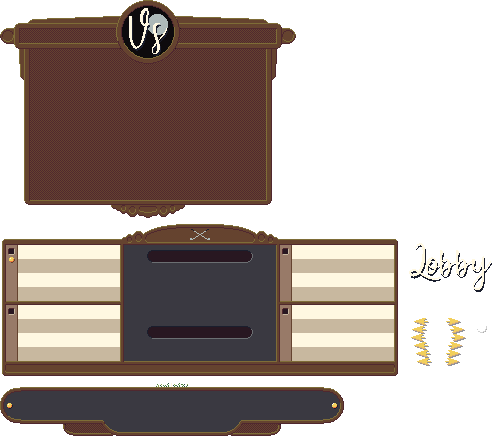
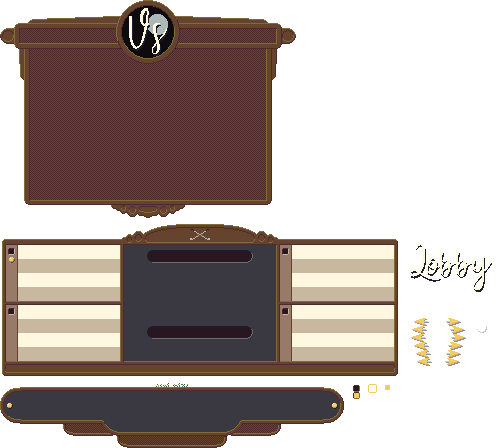
add option to hide custom courses in lobby menu

diff --git a/samples/golf/src/golf/MenuCreation.cpp b/samples/golf/src/golf/MenuCreation.cpp
@@ -250,7 +250,9 @@ void MenuState::hideToolTip()
 void MenuState::createUI()
 {
     parseCourseDirectory(ConstVal::MapPath, false);
+    m_officialCourseCount = m_courseData.size();
     parseCourseDirectory(cro::App::getPreferencePath() + ConstVal::UserMapPath, true);
+    m_activeCourseCount = m_sharedData.showCustomCourses ? m_courseData.size() : m_officialCourseCount;
 
     if (!m_courseData.empty())
     {
@@ -1097,7 +1099,7 @@ void MenuState::createAvatarMenu(cro::Entity parent, std::uint32_t mouseEnter, s
         {
             if (activated(evt))
             {
-                m_sharedData.courseIndex = (m_sharedData.courseIndex + (m_courseData.size() - 1)) % m_courseData.size();
+                m_sharedData.courseIndex = (m_sharedData.courseIndex + (m_activeCourseCount - 1)) % m_activeCourseCount;
 
                 m_sharedData.mapDirectory = m_courseData[m_sharedData.courseIndex].directory;
                 auto data = serialiseString(m_sharedData.mapDirectory);
@@ -1111,11 +1113,32 @@ void MenuState::createAvatarMenu(cro::Entity parent, std::uint32_t mouseEnter, s
         {
             if (activated(evt))
             {
-                m_sharedData.courseIndex = (m_sharedData.courseIndex + 1) % m_courseData.size();
+                m_sharedData.courseIndex = (m_sharedData.courseIndex + 1) % m_activeCourseCount;
 
                 m_sharedData.mapDirectory = m_courseData[m_sharedData.courseIndex].directory;
                 auto data = serialiseString(m_sharedData.mapDirectory);
                 m_sharedData.clientConnection.netClient.sendPacket(PacketID::MapInfo, data.data(), data.size(), net::NetFlag::Reliable, ConstVal::NetChannelStrings);
+
+                m_audioEnts[AudioID::Back].getComponent<cro::AudioEmitter>().play();
+            }
+        });
+
+    m_courseSelectCallbacks.toggleUserCourses = m_uiScene.getSystem<cro::UISystem>()->addCallback(
+        [&](cro::Entity, const cro::ButtonEvent& evt)
+        {
+            if (activated(evt))
+            {
+                m_sharedData.showCustomCourses = !m_sharedData.showCustomCourses;
+
+                m_activeCourseCount = m_sharedData.showCustomCourses ? m_courseData.size() : m_officialCourseCount;
+                auto newIndex = m_sharedData.courseIndex % m_activeCourseCount;
+                if (newIndex != m_sharedData.courseIndex)
+                {
+                    m_sharedData.courseIndex = newIndex;
+                    m_sharedData.mapDirectory = m_courseData[newIndex].directory;
+                    auto data = serialiseString(m_sharedData.mapDirectory);
+                    m_sharedData.clientConnection.netClient.sendPacket(PacketID::MapInfo, data.data(), data.size(), net::NetFlag::Reliable, ConstVal::NetChannelStrings);
+                }
 
                 m_audioEnts[AudioID::Back].getComponent<cro::AudioEmitter>().play();
             }
@@ -1131,6 +1154,18 @@ void MenuState::createAvatarMenu(cro::Entity parent, std::uint32_t mouseEnter, s
         [](cro::Entity e)
         {
             e.getComponent<cro::SpriteAnimation>().play(0);
+        });
+
+    m_courseSelectCallbacks.selectHighlight = m_uiScene.getSystem<cro::UISystem>()->addCallback(
+        [](cro::Entity e)
+        {
+            e.getComponent<cro::Sprite>().setColour(cro::Colour::White);
+            e.getComponent<cro::AudioEmitter>().play();
+        });
+    m_courseSelectCallbacks.unselectHighlight = m_uiScene.getSystem<cro::UISystem>()->addCallback(
+        [](cro::Entity e)
+        {
+            e.getComponent<cro::Sprite>().setColour(cro::Colour::Transparent);
         });
 
     m_courseSelectCallbacks.showTip = m_uiScene.getSystem<cro::UISystem>()->addCallback(
@@ -1591,6 +1626,8 @@ void MenuState::createLobbyMenu(cro::Entity parent, std::uint32_t mouseEnter, st
     spriteSheet.loadFromFile("assets/golf/sprites/lobby_menu.spt", m_resources.textures);
     m_sprites[SpriteID::PrevCourse] = spriteSheet.getSprite("arrow_left");
     m_sprites[SpriteID::NextCourse] = spriteSheet.getSprite("arrow_right");
+    m_sprites[SpriteID::LobbyCheckbox] = spriteSheet.getSprite("checkbox");
+    m_sprites[SpriteID::LobbyCheckboxHighlight] = spriteSheet.getSprite("checkbox_highlight");
 
 
     //title
@@ -1684,7 +1721,7 @@ void MenuState::createLobbyMenu(cro::Entity parent, std::uint32_t mouseEnter, st
     entity.addComponent<UIElement>().relativePosition = CourseDescPosition;
     entity.getComponent<UIElement>().depth = -0.2f;
     bounds = entity.getComponent<cro::Sprite>().getTextureBounds();
-    entity.getComponent<cro::Transform>().setOrigin({ std::floor( bounds.width / 2.f), std::floor(bounds.height / 2.f) });
+    entity.getComponent<cro::Transform>().setOrigin({ std::floor( bounds.width / 2.f), std::floor(bounds.height / 2.f) + 3.f });
     menuTransform.addChild(entity.getComponent<cro::Transform>());
     bgEnt = entity;
 
@@ -1724,7 +1761,7 @@ void MenuState::createLobbyMenu(cro::Entity parent, std::uint32_t mouseEnter, st
 
     //course title
     entity = m_uiScene.createEntity();
-    entity.addComponent<cro::Transform>().setPosition({ bounds.width / 2.f, 40.f, 01.f });
+    entity.addComponent<cro::Transform>().setPosition({ bounds.width / 2.f, 52.f, 01.f });
     entity.addComponent<cro::Drawable2D>();
     entity.addComponent<cro::CommandTarget>().ID = CommandID::Menu::CourseTitle;
     entity.addComponent<cro::Text>(font).setCharacterSize(UITextSize);
@@ -1733,7 +1770,7 @@ void MenuState::createLobbyMenu(cro::Entity parent, std::uint32_t mouseEnter, st
 
     //course description
     entity = m_uiScene.createEntity();
-    entity.addComponent<cro::Transform>().setPosition({ bounds.width / 2.f, 28.f, 01.f });
+    entity.addComponent<cro::Transform>().setPosition({ bounds.width / 2.f, 40.f, 01.f });
     entity.addComponent<cro::Drawable2D>();
     entity.addComponent<cro::CommandTarget>().ID = CommandID::Menu::CourseDesc;
     entity.addComponent<cro::Text>(smallFont).setCharacterSize(InfoTextSize);
@@ -1742,7 +1779,7 @@ void MenuState::createLobbyMenu(cro::Entity parent, std::uint32_t mouseEnter, st
 
     //hole count
     entity = m_uiScene.createEntity();
-    entity.addComponent<cro::Transform>().setPosition({ bounds.width / 2.f, 16.f, 01.f });
+    entity.addComponent<cro::Transform>().setPosition({ bounds.width / 2.f, 28.f, 01.f });
     entity.addComponent<cro::Drawable2D>();
     entity.addComponent<cro::CommandTarget>().ID = CommandID::Menu::CourseHoles;
     entity.addComponent<cro::Text>(smallFont).setCharacterSize(InfoTextSize);
@@ -3392,7 +3429,7 @@ void MenuState::addCourseSelectButtons()
     buttonEnt.addComponent<cro::Sprite>() = m_sprites[SpriteID::PrevCourse];
     buttonEnt.addComponent<cro::SpriteAnimation>();
     buttonEnt.addComponent<cro::CommandTarget>().ID = CommandID::Menu::UIElement | CommandID::Menu::CourseSelect;
-    buttonEnt.addComponent<UIElement>().absolutePosition = { -88.f, -19.f };
+    buttonEnt.addComponent<UIElement>().absolutePosition = { -88.f, -16.f };
     buttonEnt.getComponent<UIElement>().relativePosition = CourseDescPosition;
     buttonEnt.getComponent<UIElement>().depth = 0.01f;
     bounds = buttonEnt.getComponent<cro::Sprite>().getTextureBounds();
@@ -3416,7 +3453,7 @@ void MenuState::addCourseSelectButtons()
     buttonEnt.addComponent<cro::Sprite>() = m_sprites[SpriteID::PrevCourse];
     buttonEnt.addComponent<cro::SpriteAnimation>();
     buttonEnt.addComponent<cro::CommandTarget>().ID = CommandID::Menu::UIElement | CommandID::Menu::CourseSelect;
-    buttonEnt.addComponent<UIElement>().absolutePosition = { -44.f, -15.f };
+    buttonEnt.addComponent<UIElement>().absolutePosition = { -44.f, -12.f };
     buttonEnt.getComponent<UIElement>().relativePosition = CourseDescPosition;
     buttonEnt.getComponent<UIElement>().depth = 0.01f;
     bounds = buttonEnt.getComponent<cro::Sprite>().getTextureBounds();
@@ -3437,7 +3474,7 @@ void MenuState::addCourseSelectButtons()
     buttonEnt.addComponent<cro::Sprite>() = m_sprites[SpriteID::NextCourse];
     buttonEnt.addComponent<cro::SpriteAnimation>();
     buttonEnt.addComponent<cro::CommandTarget>().ID = CommandID::Menu::UIElement | CommandID::Menu::CourseSelect;
-    buttonEnt.addComponent<UIElement>().absolutePosition = { 44.f, -15.f };
+    buttonEnt.addComponent<UIElement>().absolutePosition = { 44.f, -12.f };
     buttonEnt.getComponent<UIElement>().relativePosition = CourseDescPosition;
     buttonEnt.getComponent<UIElement>().depth = 0.01f;
     bounds = buttonEnt.getComponent<cro::Sprite>().getTextureBounds();
@@ -3460,7 +3497,7 @@ void MenuState::addCourseSelectButtons()
     buttonEnt.addComponent<cro::Sprite>() = m_sprites[SpriteID::NextCourse];
     buttonEnt.addComponent<cro::SpriteAnimation>();
     buttonEnt.addComponent<cro::CommandTarget>().ID = CommandID::Menu::UIElement | CommandID::Menu::CourseSelect;
-    buttonEnt.addComponent<UIElement>().absolutePosition = { 88.f, -19.f };
+    buttonEnt.addComponent<UIElement>().absolutePosition = { 88.f, -16.f };
     buttonEnt.getComponent<UIElement>().relativePosition = CourseDescPosition;
     buttonEnt.getComponent<UIElement>().depth = 0.01f;
     bounds = buttonEnt.getComponent<cro::Sprite>().getTextureBounds();
@@ -3473,4 +3510,66 @@ void MenuState::addCourseSelectButtons()
     buttonEnt.getComponent<cro::Transform>().setOrigin({ bounds.width / 2.f, bounds.height / 2.f });
 
     m_menuEntities[MenuID::Lobby].getComponent<cro::Transform>().addChild(buttonEnt.getComponent<cro::Transform>());
+
+
+
+    //checkbox to hide custom courses
+    auto checkboxEnt = m_uiScene.createEntity();
+    checkboxEnt.addComponent<cro::Transform>();
+    checkboxEnt.addComponent<cro::Drawable2D>();
+    checkboxEnt.addComponent<cro::Sprite>() = m_sprites[SpriteID::LobbyCheckbox];
+    checkboxEnt.addComponent<cro::CommandTarget>().ID = CommandID::Menu::UIElement | CommandID::Menu::CourseSelect;
+    checkboxEnt.addComponent<UIElement>().absolutePosition = { -38.f, -31.f };
+    checkboxEnt.getComponent<UIElement>().relativePosition = CourseDescPosition;
+    checkboxEnt.getComponent<UIElement>().depth = 0.01f;
+
+    bounds = m_sprites[SpriteID::LobbyCheckbox].getTextureRect();
+    checkboxEnt.addComponent<cro::Callback>().active = true;
+    checkboxEnt.getComponent<cro::Callback>().function =
+        [&,bounds](cro::Entity e, float)
+    {
+        auto b = bounds;
+        if (m_sharedData.showCustomCourses)
+        {
+            b.bottom -= bounds.height;
+        }
+        e.getComponent<cro::Sprite>().setTextureRect(b);
+    };
+
+    m_menuEntities[MenuID::Lobby].getComponent<cro::Transform>().addChild(checkboxEnt.getComponent<cro::Transform>());
+
+    checkboxEnt = m_uiScene.createEntity();
+    checkboxEnt.addComponent<cro::Transform>();
+    checkboxEnt.addComponent<cro::AudioEmitter>() = m_menuSounds.getEmitter("switch");
+    checkboxEnt.addComponent<cro::Drawable2D>();
+    checkboxEnt.addComponent<cro::Sprite>() = m_sprites[SpriteID::LobbyCheckboxHighlight];
+    checkboxEnt.getComponent<cro::Sprite>().setColour(cro::Colour::Transparent);
+    checkboxEnt.addComponent<cro::CommandTarget>().ID = CommandID::Menu::UIElement | CommandID::Menu::CourseSelect;
+    checkboxEnt.addComponent<UIElement>().absolutePosition = { -39.f, -32.f };
+    checkboxEnt.getComponent<UIElement>().relativePosition = CourseDescPosition;
+    checkboxEnt.getComponent<UIElement>().depth = 0.01f;
+    bounds = checkboxEnt.getComponent<cro::Sprite>().getTextureBounds();
+    checkboxEnt.addComponent<cro::UIInput>().area = bounds;
+    checkboxEnt.getComponent<cro::UIInput>().setGroup(MenuID::Lobby);
+    checkboxEnt.getComponent<cro::UIInput>().callbacks[cro::UIInput::Selected] = m_courseSelectCallbacks.selectHighlight;
+    checkboxEnt.getComponent<cro::UIInput>().callbacks[cro::UIInput::Unselected] = m_courseSelectCallbacks.unselectHighlight;
+    checkboxEnt.getComponent<cro::UIInput>().callbacks[cro::UIInput::ButtonUp] = m_courseSelectCallbacks.toggleUserCourses;
+    m_menuEntities[MenuID::Lobby].getComponent<cro::Transform>().addChild(checkboxEnt.getComponent<cro::Transform>());
+
+
+    //and label
+    auto& font = m_sharedData.sharedResources->fonts.get(FontID::Info);
+    auto labelEnt = m_uiScene.createEntity();
+    labelEnt.addComponent<cro::Transform>();
+    labelEnt.addComponent<cro::Drawable2D>();
+    labelEnt.addComponent<cro::Text>(font).setString("Show Custom");
+    labelEnt.getComponent<cro::Text>().setCharacterSize(InfoTextSize);
+    labelEnt.getComponent<cro::Text>().setFillColour(TextNormalColour);
+    labelEnt.addComponent<cro::CommandTarget>().ID = CommandID::Menu::UIElement | CommandID::Menu::CourseSelect;
+    labelEnt.addComponent<UIElement>().absolutePosition = { 6.f, -24.f };
+    labelEnt.getComponent<UIElement>().relativePosition = CourseDescPosition;
+    labelEnt.getComponent<UIElement>().depth = 0.01f;
+
+    centreText(labelEnt);
+    m_menuEntities[MenuID::Lobby].getComponent<cro::Transform>().addChild(labelEnt.getComponent<cro::Transform>());
 }

diff --git a/samples/golf/src/golf/MenuState.cpp b/samples/golf/src/golf/MenuState.cpp
@@ -107,21 +107,23 @@ MainMenuContext::MainMenuContext(MenuState* state)
 }
 
 MenuState::MenuState(cro::StateStack& stack, cro::State::Context context, SharedStateData& sd)
-    : cro::State        (stack, context),
-    m_sharedData        (sd),
-    m_matchMaking       (context.appInstance.getMessageBus()),
-    m_cursor            (/*"assets/images/cursor.png", 0, 0*/cro::SystemCursor::Hand),
-    m_uiScene           (context.appInstance.getMessageBus(), 512),
-    m_backgroundScene   (context.appInstance.getMessageBus()/*, 128, cro::INFO_FLAG_SYSTEMS_ACTIVE*/),
-    m_avatarScene       (context.appInstance.getMessageBus()/*, 128, cro::INFO_FLAG_SYSTEMS_ACTIVE*/),
-    m_scaleBuffer       ("PixelScale"),
-    m_resolutionBuffer  ("ScaledResolution"),
-    m_windBuffer        ("WindValues"),
-    m_avatarCallbacks   (std::numeric_limits<std::uint32_t>::max(), std::numeric_limits<std::uint32_t>::max()),
-    m_currentMenu       (MenuID::Main),
-    m_prevMenu          (MenuID::Main),
-    m_viewScale         (2.f),
-    m_activePlayerAvatar(0)
+    : cro::State            (stack, context),
+    m_sharedData            (sd),
+    m_matchMaking           (context.appInstance.getMessageBus()),
+    m_cursor                (/*"assets/images/cursor.png", 0, 0*/cro::SystemCursor::Hand),
+    m_uiScene               (context.appInstance.getMessageBus(), 512),
+    m_backgroundScene       (context.appInstance.getMessageBus()/*, 128, cro::INFO_FLAG_SYSTEMS_ACTIVE*/),
+    m_avatarScene           (context.appInstance.getMessageBus()/*, 128, cro::INFO_FLAG_SYSTEMS_ACTIVE*/),
+    m_scaleBuffer           ("PixelScale"),
+    m_resolutionBuffer      ("ScaledResolution"),
+    m_windBuffer            ("WindValues"),
+    m_avatarCallbacks       (std::numeric_limits<std::uint32_t>::max(), std::numeric_limits<std::uint32_t>::max()),
+    m_currentMenu           (MenuID::Main),
+    m_prevMenu              (MenuID::Main),
+    m_viewScale             (2.f),
+    m_activeCourseCount     (0),
+    m_officialCourseCount   (0),
+    m_activePlayerAvatar    (0)
 {
     std::fill(m_readyState.begin(), m_readyState.end(), false);
     std::fill(m_ballIndices.begin(), m_ballIndices.end(), 0);

diff --git a/crogine/src/graphics/Texture.cpp b/crogine/src/graphics/Texture.cpp
@@ -138,16 +138,19 @@ void Texture::create(std::uint32_t width, std::uint32_t height, ImageFormat::Typ
 
     auto wrap = m_repeated ? GL_REPEAT : GL_CLAMP_TO_EDGE;
     auto smooth = m_smooth ? GL_LINEAR : GL_NEAREST;
-    GLint texFormat = GL_RGB;
+    GLint texFormat = GL_RGB8;
+    GLint uploadFormat = GL_RGB;
     std::int32_t pixelSize = 3;
     if (format == ImageFormat::RGBA)
     {
-        texFormat = GL_RGBA;
+        texFormat = GL_RGBA8;
+        uploadFormat = GL_RGBA;
         pixelSize = 4;
     }
     else if(format == ImageFormat::A)
     {
-        texFormat = GL_RED;
+        texFormat = GL_R8;
+        uploadFormat = GL_RED;
         pixelSize = 1;
     }
 
@@ -156,7 +159,13 @@ void Texture::create(std::uint32_t width, std::uint32_t height, ImageFormat::Typ
     std::fill(buffer.begin(), buffer.end(), 0);
 
     glCheck(glBindTexture(GL_TEXTURE_2D, m_handle));
-    glCheck(glTexImage2D(GL_TEXTURE_2D, 0, texFormat, width, height, 0, texFormat, GL_UNSIGNED_BYTE, buffer.data()));
+//#ifdef GL41
+    glCheck(glTexImage2D(GL_TEXTURE_2D, 0, uploadFormat, width, height, 0, uploadFormat, GL_UNSIGNED_BYTE, buffer.data()));
+//#else
+//    glCheck(glTexStorage2D(GL_TEXTURE_2D, 1, texFormat, width, height));
+//    glCheck(glBindTexture(GL_TEXTURE_2D, m_handle));
+//    glCheck(glTexSubImage2D(GL_TEXTURE_2D, 0, 0,0,width,height, uploadFormat, GL_UNSIGNED_BYTE, buffer.data()));
+//#endif
     glCheck(glTexParameteri(GL_TEXTURE_2D, GL_TEXTURE_WRAP_S, wrap));
     glCheck(glTexParameteri(GL_TEXTURE_2D, GL_TEXTURE_WRAP_T, wrap));
     glCheck(glTexParameteri(GL_TEXTURE_2D, GL_TEXTURE_MAG_FILTER, smooth));

diff --git a/samples/golf/src/golf/MenuState.hpp b/samples/golf/src/golf/MenuState.hpp
@@ -143,8 +143,11 @@ private:
         std::uint32_t nextCourse = 0;
         std::uint32_t prevHoleCount = 0;
         std::uint32_t nextHoleCount = 0;
+        std::uint32_t toggleUserCourses = 0;
         std::uint32_t selected = 0;
         std::uint32_t unselected = 0;
+        std::uint32_t selectHighlight = 0;
+        std::uint32_t unselectHighlight = 0;
         std::uint32_t showTip = 0;
         std::uint32_t hideTip = 0;
     }m_courseSelectCallbacks;
@@ -205,6 +208,8 @@ private:
         bool isUser = false;
     };
     std::vector<CourseData> m_courseData;
+    std::size_t m_activeCourseCount;
+    std::size_t m_officialCourseCount;
     void parseCourseDirectory(const std::string&, bool isUser);
 
     cro::Entity m_toolTip;

diff --git a/samples/golf/src/GolfGame.cpp b/samples/golf/src/GolfGame.cpp
@@ -706,6 +706,10 @@ void GolfGame::loadPreferences()
                 {
                     m_sharedData.logBenchmarks = prop.getValue<bool>();
                 }
+                else if (name == "show_custom")
+                {
+                    m_sharedData.showCustomCourses = prop.getValue<bool>();
+                }
             }
         }
     }
@@ -765,6 +769,7 @@ void GolfGame::savePreferences()
     cfg.addProperty("tree_quality").setValue(m_sharedData.treeQuality);
     cfg.addProperty("hq_shadows").setValue(m_sharedData.hqShadows);
     cfg.addProperty("log_benchmark").setValue(m_sharedData.logBenchmarks);
+    cfg.addProperty("show_custom").setValue(m_sharedData.showCustomCourses);
     cfg.save(path);
 
 

diff --git a/samples/golf/src/golf/SharedStateData.hpp b/samples/golf/src/golf/SharedStateData.hpp
@@ -182,6 +182,7 @@ struct SharedStateData final
     std::int32_t treeQuality = Low;
     bool hqShadows = true;
     bool logBenchmarks = false;
+    bool showCustomCourses = true;
 
     std::int32_t baseState = 0; //used to tell which state we're returning to from errors etc
     std::unique_ptr<cro::ResourceCollection> sharedResources;

diff --git a/samples/golf/src/golf/MenuCallbacks.hpp b/samples/golf/src/golf/MenuCallbacks.hpp
@@ -106,6 +106,8 @@ struct SpriteID final
         PrevCourseHighlight,
         NextCourse,
         NextCourseHighlight,
+        LobbyCheckbox,
+        LobbyCheckboxHighlight,
 
         Count
     };
